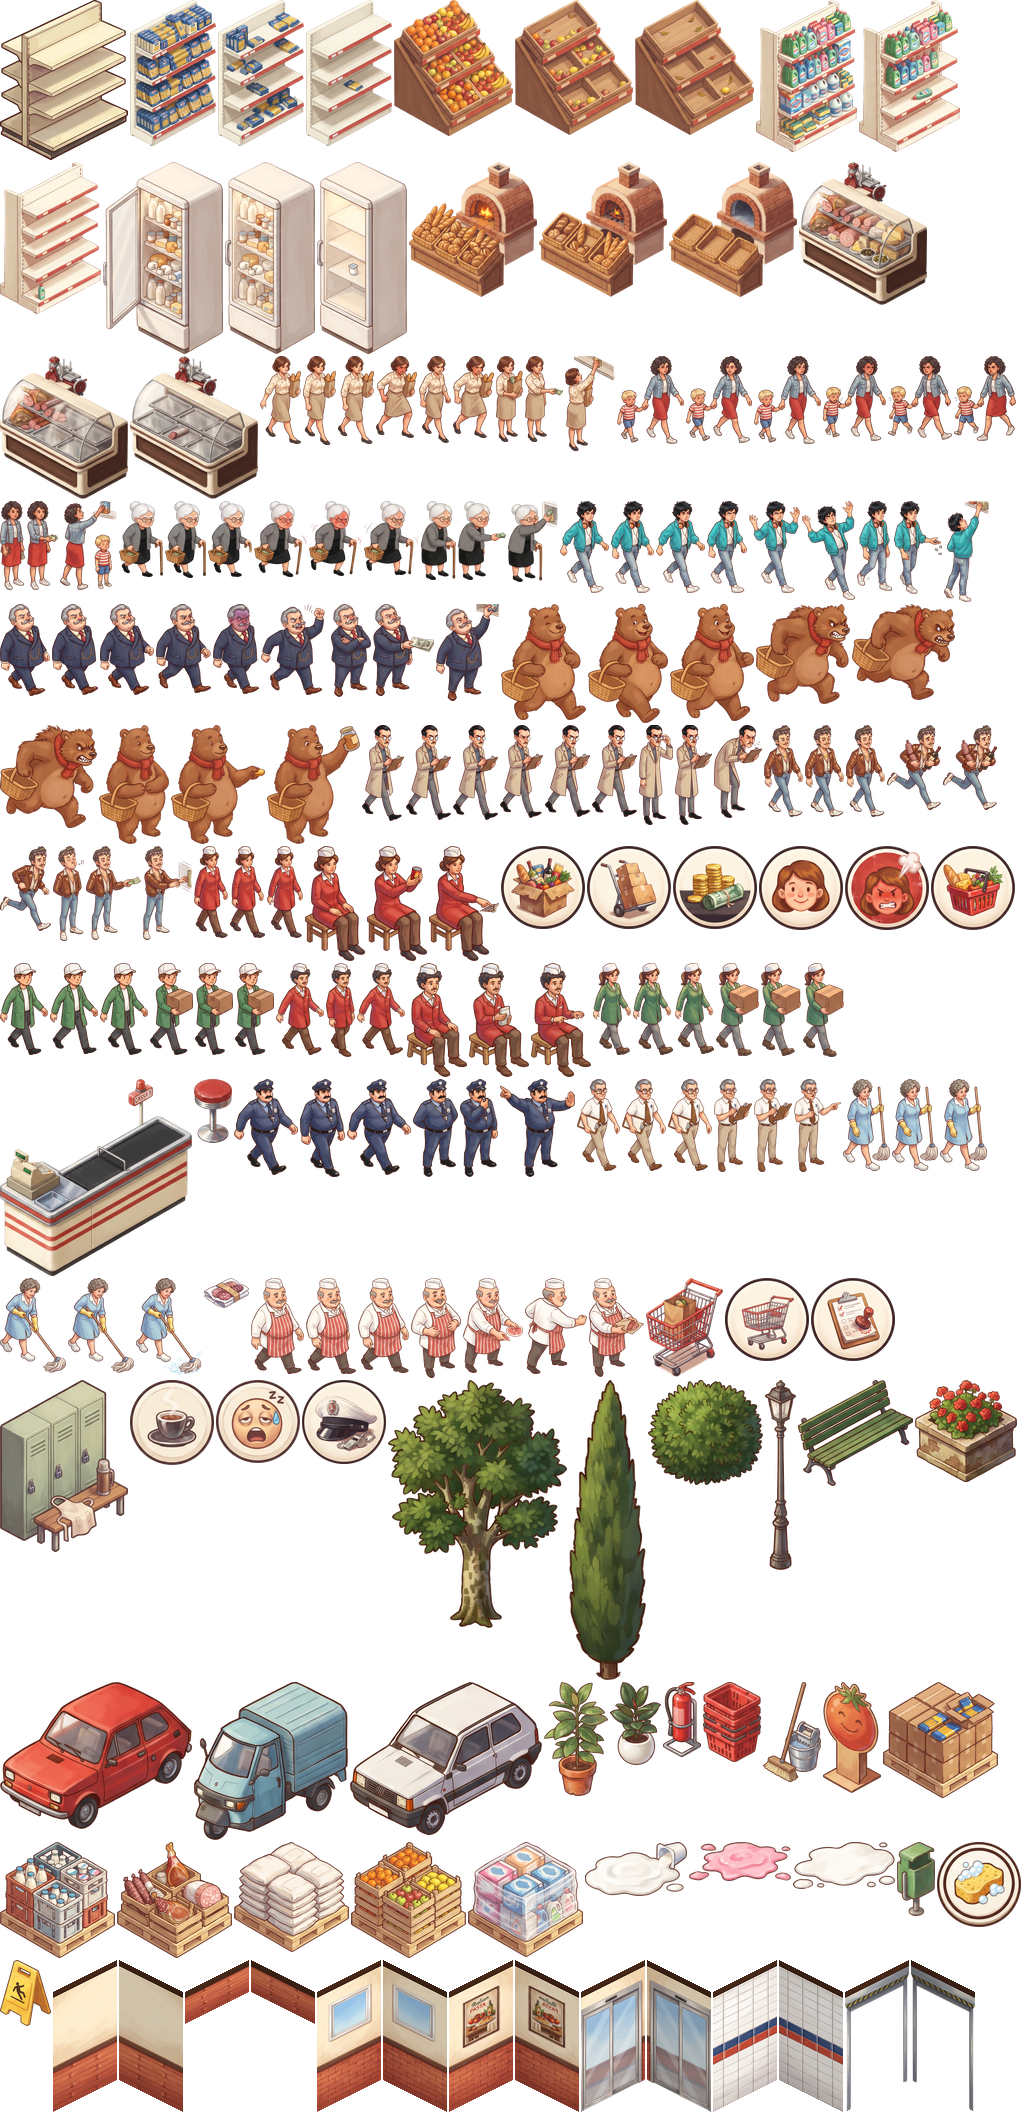
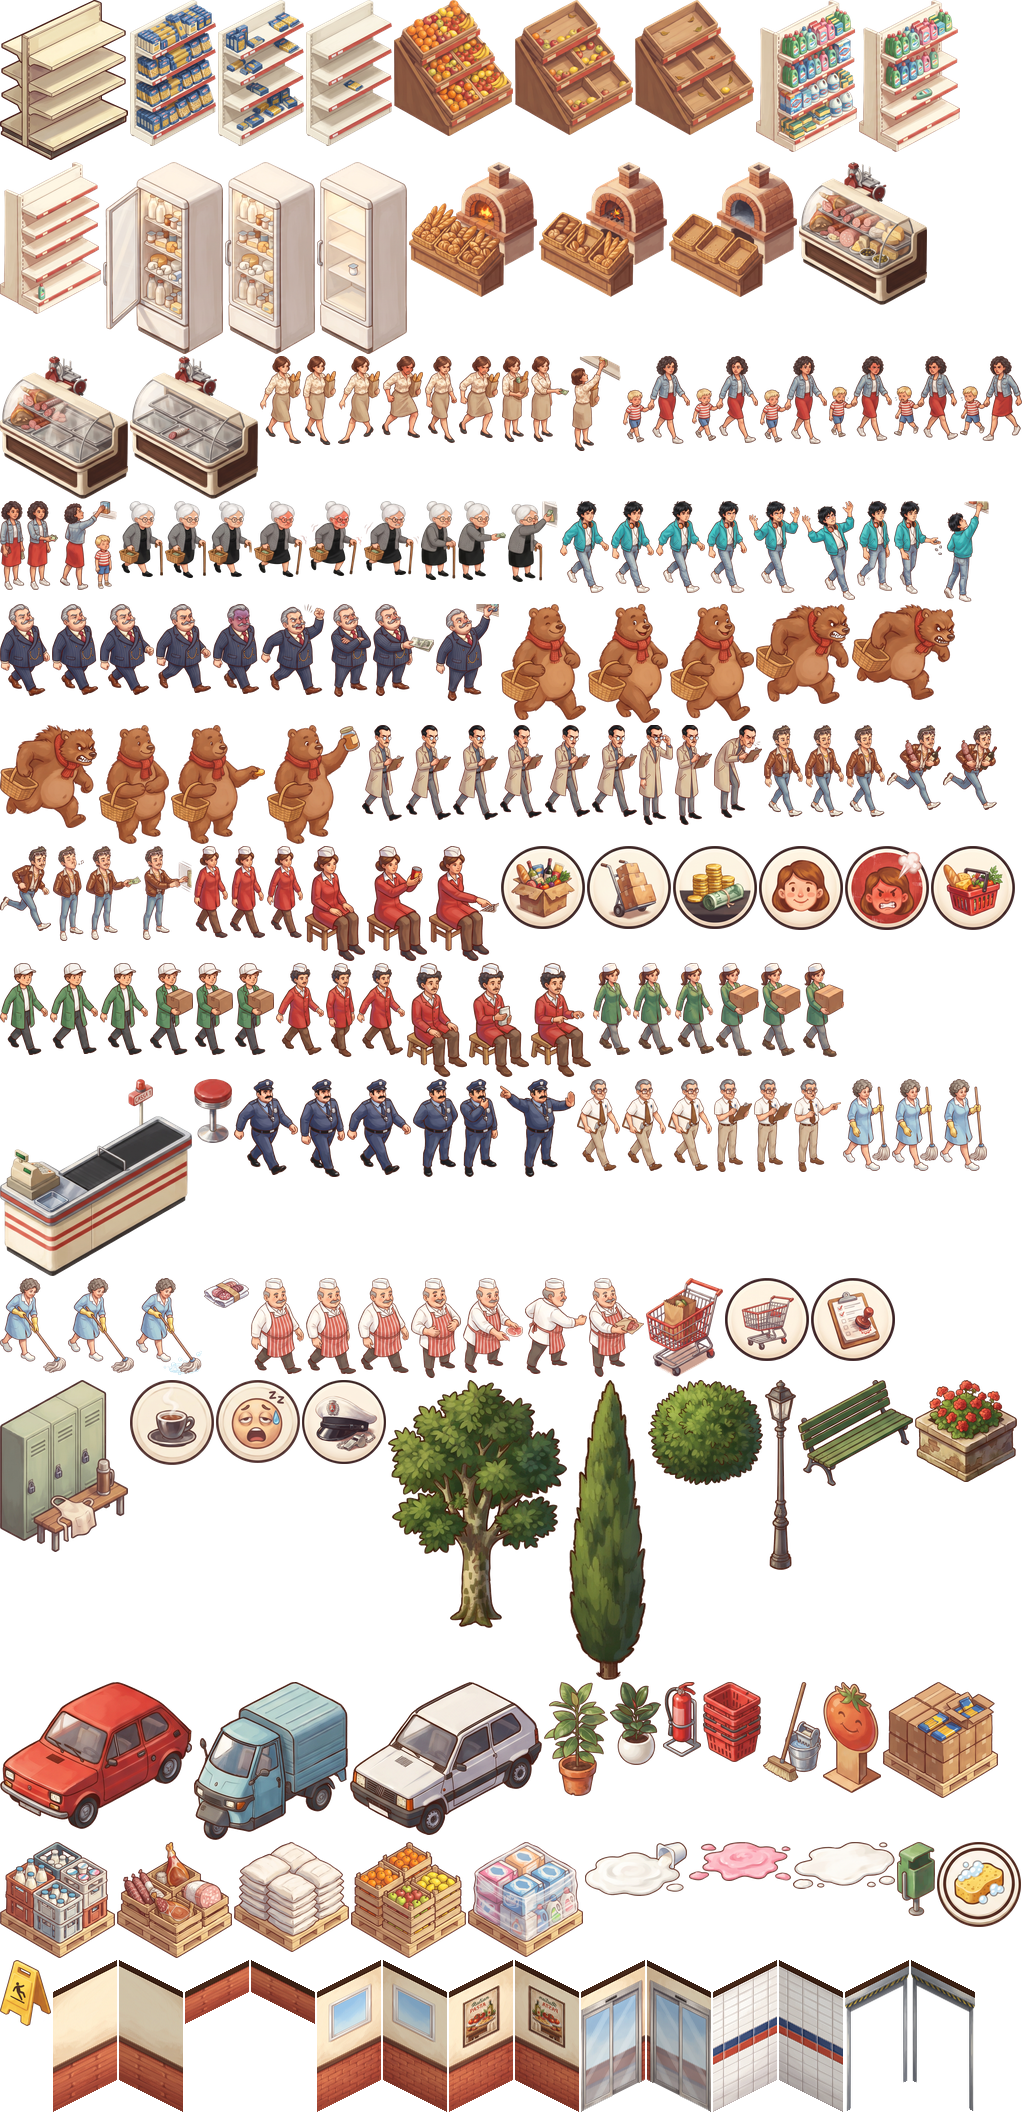
Signora alternates legs: third walk frame mirrors the legs (playtest)
All three Gemini walk frames had the right leg forward.

Changed region(s): [[0.3125, 0.1562, 1.0, 0.2188]]

diff --git a/tools/kit.py b/tools/kit.py
@@ -15,6 +15,9 @@ RES = 2  # frames stored at 2x, drawn at 0.5 scale: sharp when zoomed in
 #             pieces (same unit, other states) take the same scale and anchor;
 #   ('h', px): the whole sheet scaled so its first piece is px tall, anchored on each cell's centre line
 #             (characters: walk frames don't jitter sideways, seated/reaching poses keep their relative size).
+# Frame rebuilt from another cell with the legs below `hem` (fraction of the cell height) mirrored around the hips:
+# the signora's three walk frames all have the right leg forward, so her walk never alternated (playtest 2026-11-27).
+SWAP_LEGS = {'signora_walk_2': (0, 0.752)}
 SEATED = 1.3  # seated cashiers drawn bigger, to match the two-cell counter (playtest 2026-11-27)
 STATES = lambda b: [b, f'{b}_mezzo', f'{b}_vuoto']
 WALK = lambda n: [f'{n}_walk_0', f'{n}_walk_1', f'{n}_walk_2']
@@ -88,6 +91,13 @@ def unline(img, cols):
             if dark[x]: out[:, max(0, x - 3):x + 4] = 255
     return Image.fromarray(out.astype(np.uint8))
 
+def swap_legs(cell, hem):
+    a = np.array(cell); y = round(hem * a.shape[0])
+    xs = np.nonzero(a[y].min(1) < 235)[0]; xc = (xs.min() + xs.max()) / 2  # hips
+    legs = np.full_like(a[y:], 255); src = np.round(2 * xc - np.arange(a.shape[1])).astype(int); ok = (src >= 0) & (src < a.shape[1])
+    legs[:, ok] = a[y:, src[ok]]; a[y:] = legs
+    return Image.fromarray(a)
+
 def pieces():
     """Yields (name, image, anchor_x) for every piece of every sheet."""
     for sheet, cols, rows, (kind, v), names in SHEETS:
@@ -100,7 +110,8 @@ def pieces():
         for i, name in enumerate(names):
             if not name: continue
             name, w = name if isinstance(name, tuple) else (name, None)  # 'w': own width; 'h': size multiplier
-            p, left = cutout(img.crop(((i % cols) * cw, (i // cols) * ch, (i % cols + 1) * cw, (i // cols + 1) * ch)))
+            cell = lambda j: img.crop(((j % cols) * cw, (j // cols) * ch, (j % cols + 1) * cw, (j // cols + 1) * ch))
+            p, left = cutout(swap_legs(cell(SWAP_LEGS[name][0]), SWAP_LEGS[name][1]) if name in SWAP_LEGS else cell(i))
             if kind == 'w': f = k = (w or v) * TILE_W * RES / p.width; ax = 0.5
             elif kind == 'foot':
                 if f is None:

diff --git a/docs/STATE.md b/docs/STATE.md
@@ -16,7 +16,7 @@ development (scaffold completato)
 
 ## Last action
 
-Camminata (playtest): la mamma era disegnata rivolta a sinistra e camminava all'indietro, ora specchiata (la signora no: guarda a destra come gli altri) in `tools/kit.py` (`FACES_LEFT`); tutti i personaggi a piedi salgono a metà passo e ondeggiano da un piede all'altro (`walkBob`, `walkSway`), perché i fotogrammi Gemini delle gambe quasi non cambiano. `npm test` 130/130. Prima: Numeri dei soldi che salgono (+€ verde, −€ rosso) dove entrano o escono; tocco su un mobile per spostarlo (✓ fatto). `npm test` 128/128, browser 18/18. Prima: Milestone 26: mobili in prova prima di comprarli (tocca per spostare, 🔄 gira, ✓ compra, ✕ annulla). `npm test` 127/127, browser 18/18. Prima: Scaffali Pasta/Frutta/Detersivi ancorati al piede: dentro la loro cella (playtest). Prima: Pulsanti larghi uguali (playtest): menu, barra in basso, voci, schede Staff, Assumi/Scheda/Ordina, Licenzia/Trova. Prima: Milestone 22: livelli 4–7 (Fratelli Bonetti, Supermercato del Corso, Supermercato Primavera, Ipermercato Stella), ogni meccanica sbloccata da un solo livello, bilanciati a 8 semi; menu Campagna su due colonne in orizzontale. `npm test` 127/127, browser 18/18. Prima: Milestone 25: sei mobili rifatti (scaffali Pasta, Frutta, Detersivi, frigo, forno, banco salumi) con stato pieno / mezzo / vuoto dalla merce (≤5 mezzo). Prima, dal playtest: saracinesca nei varchi del magazzino, cassa nuova lunga due celle col registratore all'uscita, cassiere seduto più grande, alone delle icone non più tagliato. `npm test` 126/126, browser 18/18. Prima: Muri: piastrelle bianche dentro magazzino e spogliatoio, intonaco e mattoni uniformi dal lato della sala. `npm test` 124/124, browser 18/18. Prima: Muri interni solo attorno a magazzino e spogliatoio (sala e casse aperte, playtest). `npm test` 124/124, browser 18/18. Prima: Milestone 24: muri nuovi (esterni intonaco/mattoni/finestre, interni piastrelle), cassa dritta col cassiere dietro e la fila davanti, cassieri uomini e magazziniere donne (sesso dal nome), tab per mansione nel pannello Staff, vista dal vivo nella scheda. 4 fogli Gemini nuovi. `npm test` 124/124, browser 18/18. Prima: Milestone 23 dal playtest: livello 1 in un giorno (€850/45%/45) con vecchiette; muri tra stanze con varco (anche nella sim) e muretti bassi davanti; UI rifatta con palette Insegna (crema/blu/rosso/senape, disegnata in codice); scheda del lavoratore (tocca un lavoratore). Cassiera sparita non riprodotta (backlog). `npm test` 123/123, browser 18/18. Prima: Feedback playtest: icone da toccare con pulse e glow; gruppo Attrezzi tolto (pressione lunga anche sulle stanze vuote: 🗑); rotellina ⚙ in alto a destra con menu Continua / Audio / Nuova partita. `npm test` 122/122, browser 17/17. Prima: Milestone 21b: prato, strada con macchine che passano, marciapiedi con lampioni e fioriere, alberi, insegna sulla porta, decorazioni negli angoli delle stanze, piazzale e magazzino chiari (`src/render/scenery.ts`, fogli `esterno.jpg`, `interni.jpg`). `npm test` 122/122. Prima: Pressione lunga sugli arredi (✋ sposta, 🔄 gira, 🗑 togli; comando `move`), bancali dipinti in magazzino (`magazzino.jpg`). `npm test` 118/118, browser 17/17. Prima: Milestone 21: HUD a una riga con barre obiettivo, barra in basso a gruppi con icone e prezzi, guida del livello 1 con Pina e freccia, "Novità" una volta sola, canvas a devicePixelRatio. `npm test` 115/115, browser 16/16. Prima: Confronto con Theme Hospital: punti 1, 6, 7, 8 (schermo pieno, testo nitido, Pina consigliera, icone) nel milestone 21; nuovo milestone 21b atmosfera (esterno, decorazioni, muri leggibili); folla nel backlog. Prima: Milestone 20: campagna (`src/sim/levels.ts`), livelli 1–3 a negozi prestabiliti con sblocchi nella sim, menu Campagna/Negozio libero, progressi salvati, camera sulle stanze. `npm test` 112/112, browser 14/14. Prima: Milestone planning: campagna a negozi prestabiliti (ADR-0003) → milestone 20 (sistema livelli + livelli 1–3), 21 (interfaccia facile), 22 (livelli 4–7); ordine e scelte confermati dall'utente (negozi inventati, stanze fisse, Negozio libero dopo il 3). Prima: Milestone 19: ruoli guardia (becca i furbetti vicino alla cassa) e capo reparto (un tocco ogni 1,5 s: conti, macchie, scaffali, carrelli); fogli Gemini `guardia.jpg`, `capo.jpg`. Bot di bilanciamento a 8 semi: obiettivi livello 1 → €1500 / 60% / 270 serviti. `npm test` 104/104, browser 13/13. Prima: Milestone 18: energia dello staff, stanza Spogliatoio con Armadietti, pause una per ruolo, stanchi lenti senza spogliatoio; foglio Gemini `spogliatoio.jpg`. Obiettivo soldi 3500→2800. `npm test` 97/97, browser 13/13. Prima: Milestone 17: stanza Panetteria col forno (il banconiere sforna il pane a infornate, profumo che attira clienti), frigo per i Latticini; foglio Gemini `forno.jpg` 2×2. Pane 5 €. `npm test` 89/89, browser 13/13. Prima: Milestone planning: 17 forno e frigo, 18 spogliatoio e stanchezza, 19 guardia e capo reparto (ordine confermato dall'utente). Prima: Milestone 16: audio tutto sintetizzato (Web Audio + voce del telefono), muzak, effetti, annunci comici, tasto Audio. `npm test` 84/84, browser 13/13. Prima: Milestone 15: cliente furbetto (salta la fila o scappa senza pagare), tocco 👮 per beccarlo (paga, +rep), toast "Beccato!". Fogli Gemini `furbetto.jpg` 3×3 e `beccato.jpg`. `npm test` 80/80, browser 12/12. Prima: Milestone 14: carrelli abbandonati (il magazziniere li porta via, tocco 🛒), ispezione sanitaria al giorno 3 (multa per macchia o bonus). Obiettivo soldi livello 1 → €3500. `npm test` 74/74, browser 12/12. Prima: Milestone 13: stanza banco salumi, bancone con affettatrice, banconiere (quarto ruolo) con la sua fila; Salumi solo al banco. Fogli Gemini `bancone.jpg`, `banconiere.jpg`. `npm test` 69/69, browser 12/12. Prima: Milestone 12: macchie di yogurt (`src/sim/dirt.ts`), cestino, addetto pulizie (terzo ruolo), icona spugna da toccare; fogli Gemini `pulizie.jpg` e `sporco.jpg`. `npm test` 64/64, browser 12/12. Prima: Milestone planning (11 salvataggio e menu, 12 sporco e pulizie, 13 banco salumi, confermati dall'utente). Milestone 11: `src/sim/save.ts`, salvataggio automatico in localStorage, menu iniziale Continua/Nuova partita, briefing con gli obiettivi; `?manual&save` per i test browser. `npm test` 57/57, browser 12/12.
+Gambe della signora (playtest): i suoi tre fotogrammi avevano tutti la gamba destra avanti; il terzo ora è il primo con le gambe specchiate sotto la gonna (`SWAP_LEGS` in `tools/kit.py`). Prima: Camminata (playtest): la mamma era disegnata rivolta a sinistra e camminava all'indietro, ora specchiata (la signora no: guarda a destra come gli altri) in `tools/kit.py` (`FACES_LEFT`); tutti i personaggi a piedi salgono a metà passo e ondeggiano da un piede all'altro (`walkBob`, `walkSway`), perché i fotogrammi Gemini delle gambe quasi non cambiano. `npm test` 130/130. Prima: Numeri dei soldi che salgono (+€ verde, −€ rosso) dove entrano o escono; tocco su un mobile per spostarlo (✓ fatto). `npm test` 128/128, browser 18/18. Prima: Milestone 26: mobili in prova prima di comprarli (tocca per spostare, 🔄 gira, ✓ compra, ✕ annulla). `npm test` 127/127, browser 18/18. Prima: Scaffali Pasta/Frutta/Detersivi ancorati al piede: dentro la loro cella (playtest). Prima: Pulsanti larghi uguali (playtest): menu, barra in basso, voci, schede Staff, Assumi/Scheda/Ordina, Licenzia/Trova. Prima: Milestone 22: livelli 4–7 (Fratelli Bonetti, Supermercato del Corso, Supermercato Primavera, Ipermercato Stella), ogni meccanica sbloccata da un solo livello, bilanciati a 8 semi; menu Campagna su due colonne in orizzontale. `npm test` 127/127, browser 18/18. Prima: Milestone 25: sei mobili rifatti (scaffali Pasta, Frutta, Detersivi, frigo, forno, banco salumi) con stato pieno / mezzo / vuoto dalla merce (≤5 mezzo). Prima, dal playtest: saracinesca nei varchi del magazzino, cassa nuova lunga due celle col registratore all'uscita, cassiere seduto più grande, alone delle icone non più tagliato. `npm test` 126/126, browser 18/18. Prima: Muri: piastrelle bianche dentro magazzino e spogliatoio, intonaco e mattoni uniformi dal lato della sala. `npm test` 124/124, browser 18/18. Prima: Muri interni solo attorno a magazzino e spogliatoio (sala e casse aperte, playtest). `npm test` 124/124, browser 18/18. Prima: Milestone 24: muri nuovi (esterni intonaco/mattoni/finestre, interni piastrelle), cassa dritta col cassiere dietro e la fila davanti, cassieri uomini e magazziniere donne (sesso dal nome), tab per mansione nel pannello Staff, vista dal vivo nella scheda. 4 fogli Gemini nuovi. `npm test` 124/124, browser 18/18. Prima: Milestone 23 dal playtest: livello 1 in un giorno (€850/45%/45) con vecchiette; muri tra stanze con varco (anche nella sim) e muretti bassi davanti; UI rifatta con palette Insegna (crema/blu/rosso/senape, disegnata in codice); scheda del lavoratore (tocca un lavoratore). Cassiera sparita non riprodotta (backlog). `npm test` 123/123, browser 18/18. Prima: Feedback playtest: icone da toccare con pulse e glow; gruppo Attrezzi tolto (pressione lunga anche sulle stanze vuote: 🗑); rotellina ⚙ in alto a destra con menu Continua / Audio / Nuova partita. `npm test` 122/122, browser 17/17. Prima: Milestone 21b: prato, strada con macchine che passano, marciapiedi con lampioni e fioriere, alberi, insegna sulla porta, decorazioni negli angoli delle stanze, piazzale e magazzino chiari (`src/render/scenery.ts`, fogli `esterno.jpg`, `interni.jpg`). `npm test` 122/122. Prima: Pressione lunga sugli arredi (✋ sposta, 🔄 gira, 🗑 togli; comando `move`), bancali dipinti in magazzino (`magazzino.jpg`). `npm test` 118/118, browser 17/17. Prima: Milestone 21: HUD a una riga con barre obiettivo, barra in basso a gruppi con icone e prezzi, guida del livello 1 con Pina e freccia, "Novità" una volta sola, canvas a devicePixelRatio. `npm test` 115/115, browser 16/16. Prima: Confronto con Theme Hospital: punti 1, 6, 7, 8 (schermo pieno, testo nitido, Pina consigliera, icone) nel milestone 21; nuovo milestone 21b atmosfera (esterno, decorazioni, muri leggibili); folla nel backlog. Prima: Milestone 20: campagna (`src/sim/levels.ts`), livelli 1–3 a negozi prestabiliti con sblocchi nella sim, menu Campagna/Negozio libero, progressi salvati, camera sulle stanze. `npm test` 112/112, browser 14/14. Prima: Milestone planning: campagna a negozi prestabiliti (ADR-0003) → milestone 20 (sistema livelli + livelli 1–3), 21 (interfaccia facile), 22 (livelli 4–7); ordine e scelte confermati dall'utente (negozi inventati, stanze fisse, Negozio libero dopo il 3). Prima: Milestone 19: ruoli guardia (becca i furbetti vicino alla cassa) e capo reparto (un tocco ogni 1,5 s: conti, macchie, scaffali, carrelli); fogli Gemini `guardia.jpg`, `capo.jpg`. Bot di bilanciamento a 8 semi: obiettivi livello 1 → €1500 / 60% / 270 serviti. `npm test` 104/104, browser 13/13. Prima: Milestone 18: energia dello staff, stanza Spogliatoio con Armadietti, pause una per ruolo, stanchi lenti senza spogliatoio; foglio Gemini `spogliatoio.jpg`. Obiettivo soldi 3500→2800. `npm test` 97/97, browser 13/13. Prima: Milestone 17: stanza Panetteria col forno (il banconiere sforna il pane a infornate, profumo che attira clienti), frigo per i Latticini; foglio Gemini `forno.jpg` 2×2. Pane 5 €. `npm test` 89/89, browser 13/13. Prima: Milestone planning: 17 forno e frigo, 18 spogliatoio e stanchezza, 19 guardia e capo reparto (ordine confermato dall'utente). Prima: Milestone 16: audio tutto sintetizzato (Web Audio + voce del telefono), muzak, effetti, annunci comici, tasto Audio. `npm test` 84/84, browser 13/13. Prima: Milestone 15: cliente furbetto (salta la fila o scappa senza pagare), tocco 👮 per beccarlo (paga, +rep), toast "Beccato!". Fogli Gemini `furbetto.jpg` 3×3 e `beccato.jpg`. `npm test` 80/80, browser 12/12. Prima: Milestone 14: carrelli abbandonati (il magazziniere li porta via, tocco 🛒), ispezione sanitaria al giorno 3 (multa per macchia o bonus). Obiettivo soldi livello 1 → €3500. `npm test` 74/74, browser 12/12. Prima: Milestone 13: stanza banco salumi, bancone con affettatrice, banconiere (quarto ruolo) con la sua fila; Salumi solo al banco. Fogli Gemini `bancone.jpg`, `banconiere.jpg`. `npm test` 69/69, browser 12/12. Prima: Milestone 12: macchie di yogurt (`src/sim/dirt.ts`), cestino, addetto pulizie (terzo ruolo), icona spugna da toccare; fogli Gemini `pulizie.jpg` e `sporco.jpg`. `npm test` 64/64, browser 12/12. Prima: Milestone planning (11 salvataggio e menu, 12 sporco e pulizie, 13 banco salumi, confermati dall'utente). Milestone 11: `src/sim/save.ts`, salvataggio automatico in localStorage, menu iniziale Continua/Nuova partita, briefing con gli obiettivi; `?manual&save` per i test browser. `npm test` 57/57, browser 12/12.
 
 ## Next step
 

diff --git a/docs/backlog.md b/docs/backlog.md
@@ -174,3 +174,4 @@ Promoted → `[x]` + `→ milestone NN-<slug>.md`. Rejected → `~~title~~` + `R
 - [x] Camminata (playtest 2026-11-27): la mamma camminava all'indietro (disegno rivolto a sinistra, specchiati in `tools/kit.py` `FACES_LEFT`); su e giù e ondeggio da un piede all'altro (`walkBob`, `walkSway` in `src/render/sprites.ts`). Fatto subito, senza milestone.
 - [ ] Personaggi visti di spalle quando camminano verso il fondo (in alto sullo schermo): ora mostrano sempre la faccia. Servono fogli Gemini nuovi con la vista da dietro, e fotogrammi delle gambe più diversi tra loro.
   - Source: playtest 2026-11-27
+- [x] Signora con la gamba destra sempre avanti (playtest 2026-11-27): terzo fotogramma ricostruito con le gambe specchiate (`SWAP_LEGS` in `tools/kit.py`). Altri personaggi con lo stesso difetto: da controllare al playtest.
